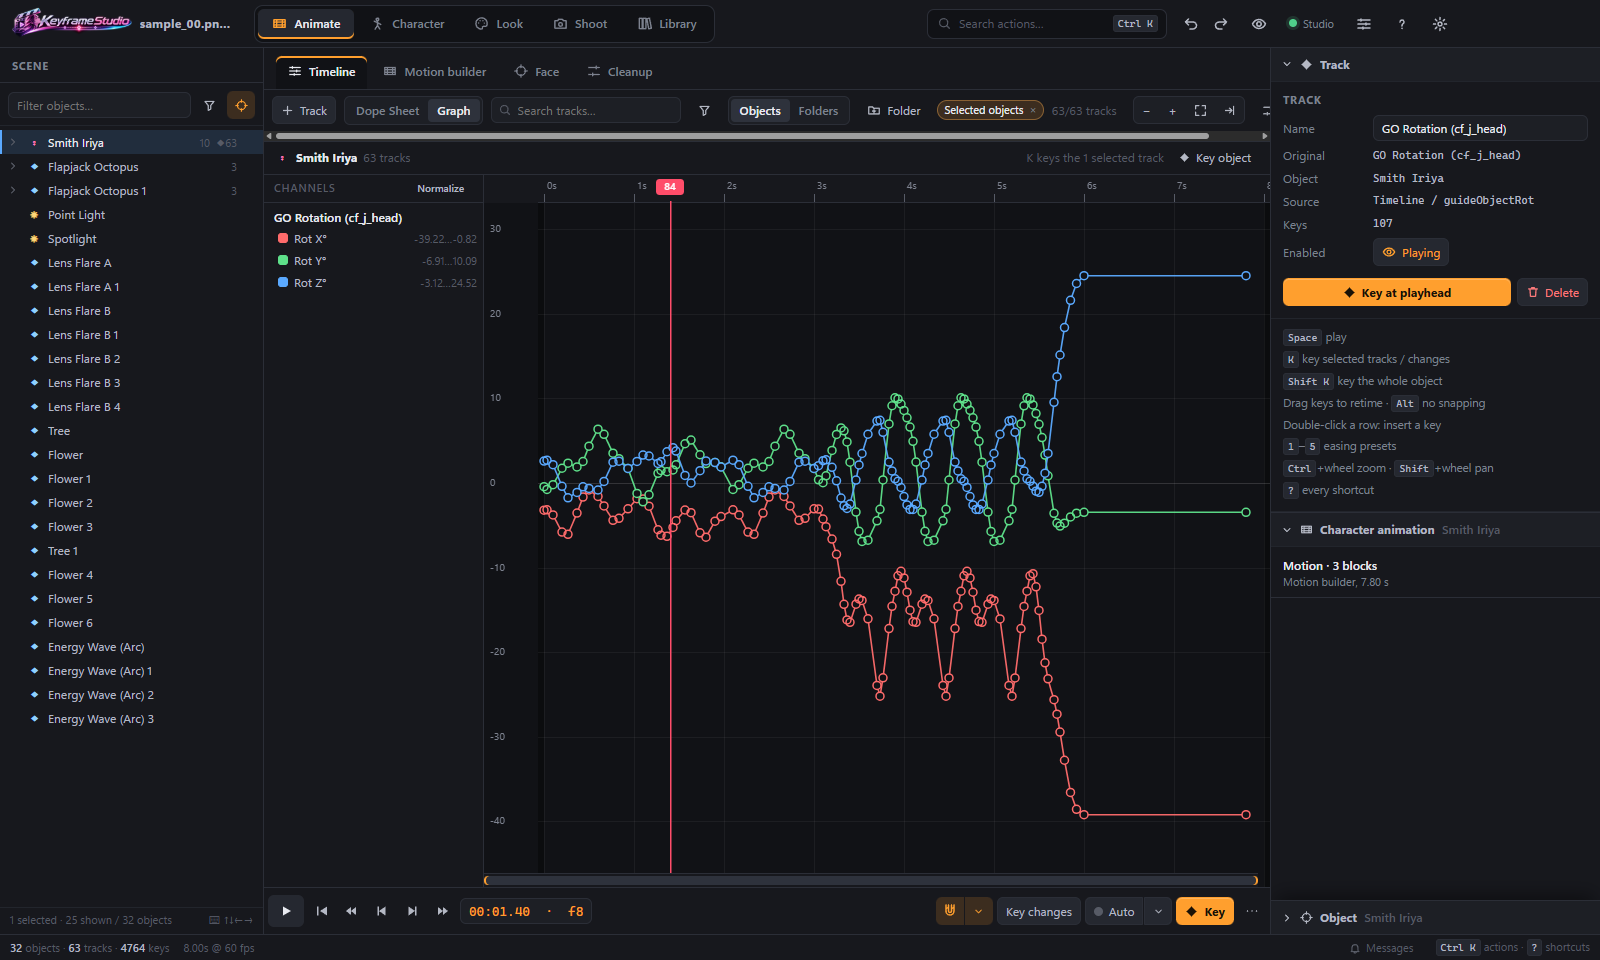
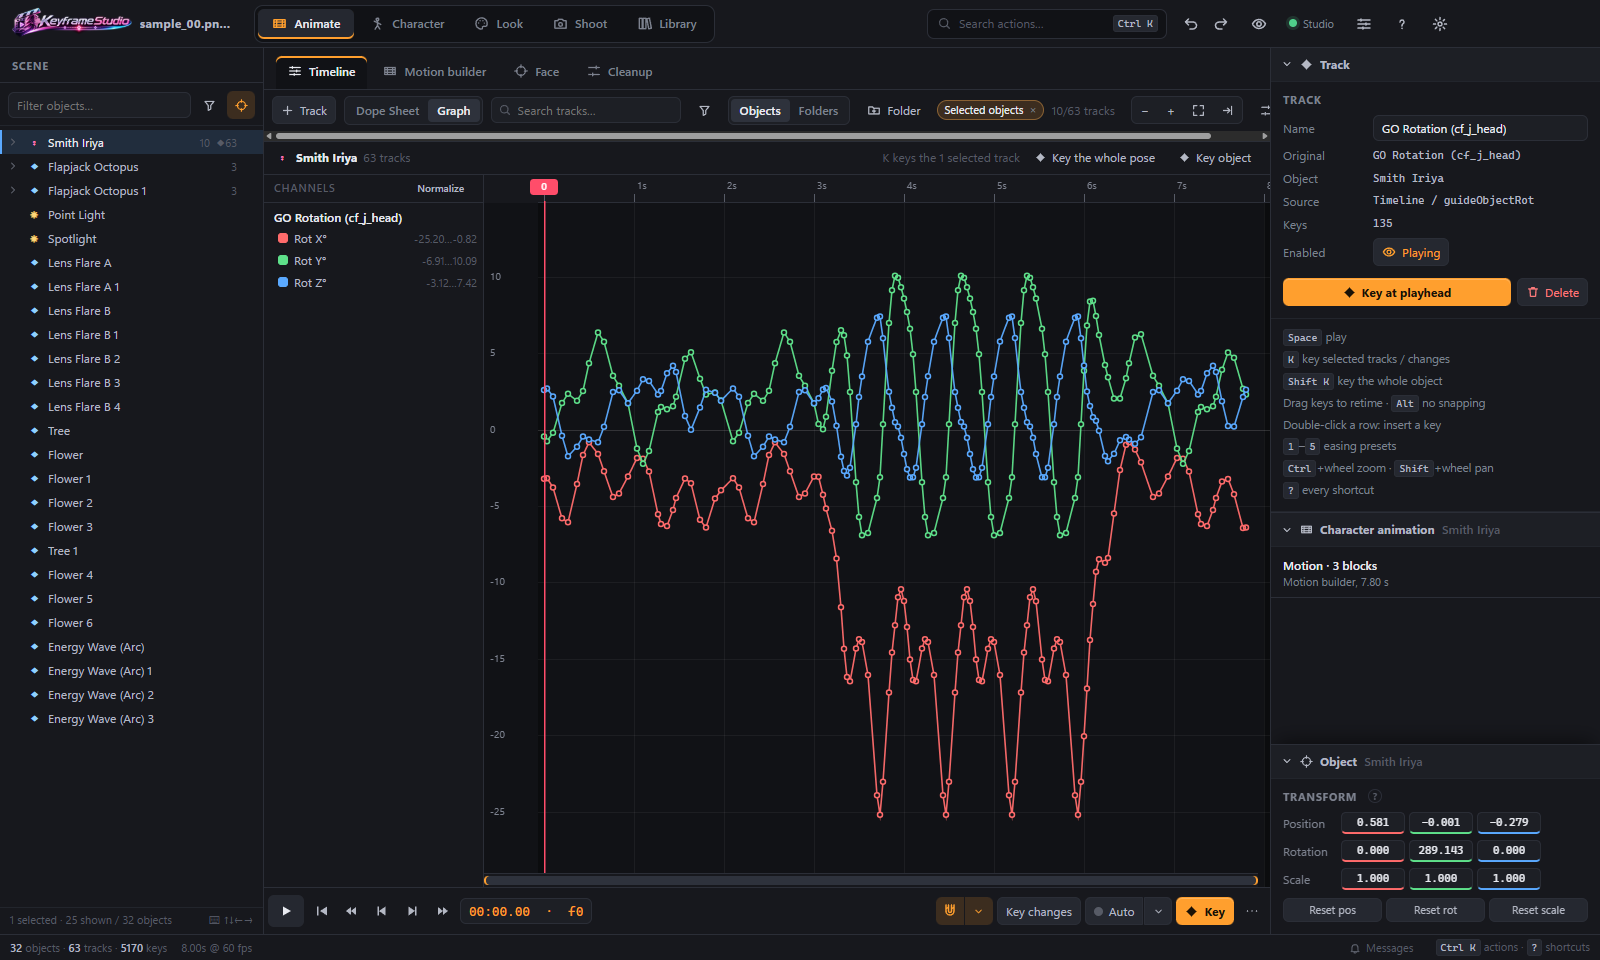
README: new Animate, graph and Picture screenshots; rows for the reworked pages
Timeline body parts, Look › Picture as a list, Body, Face parts, Posing views,
Materials groups, Mod settings areas and Translations described as they are now.

diff --git a/README.md b/README.md
@@ -16,7 +16,7 @@
 </p>
 
 <p align="center">
-  <img src="docs/images/app-animate.png" alt="Keyframe Studio: the Animate workspace with a character's bone tracks and keys, and the selected track on the right" width="900">
+  <img src="docs/images/app-animate.png" alt="Keyframe Studio: the Animate workspace with a character's tracks sorted into body parts, two parts open, and the selected track on the right" width="900">
 </p>
 
 > **Beta.** Keyframe Studio works and is tested against a live CharaStudio, but it's new — expect rough edges.
@@ -67,7 +67,7 @@ paths and onion-skin ghosts, folders (an eye mutes a whole folder or object), se
 <table>
   <tr>
     <td width="50%"><img src="docs/images/app-face.png" alt="Animate › Face: expressions keyed at the playhead with a close-up"></td>
-    <td width="50%"><img src="docs/images/app-look-picture.png" alt="Look › Picture: Studio's settings and Keyframe Studio's effects, grouped into colour, lens and atmosphere"></td>
+    <td width="50%"><img src="docs/images/app-look-picture.png" alt="Look › Picture: a short list of effects with switches, grouped into colour, lens and atmosphere, and the picked effect's settings beside it"></td>
   </tr>
   <tr>
     <td><b>Face</b> — expressions keyed at the playhead, lip-sync from audio with vowel shapes, natural blinks.</td>
@@ -148,7 +148,7 @@ window kept on top of Studio) and saved layouts.
 | --- | --- |
 | **Viewport overlays** (bottom bar › View) | Drawn in Studio's own view, never in renders: skeleton with clickable joints (blue where FK poses them), IK targets (on their joint when idle), accessories, selection outline, lights (direction, cone, reach), scene cameras, the depth-of-field focus point, names on hover. Where markers overlap, rest the pointer and they fan out into labelled chips to pick from |
 | **Viewport handles** | Rings to turn a bone (its axes + a view ring), arrows / cubes / free-move to move and scale objects, lights, cameras, IK targets and accessories; Local or World axes; Ctrl snaps, Shift fine; click the middle (or rest on it) to switch Move / Rotate / Scale. Only the touched part goes to FK (a limb to IK) from the pose on screen — FK and IK work together per limb, and scenes reload that way. Studio's camera holds still over a handle; each drag is one undo |
-| **Dope sheet** | Tracks grouped per object with summary keys, drag/box select, copy/paste/duplicate, easing hotkeys, context menus, audio lanes, undo/redo. **Snap** lands on keys (this track only / all tracks / none), the playhead, ruler ticks and clip edges, with a line and tag saying what; Alt places freely |
+| **Dope sheet** | Tracks grouped per object with summary keys; a character's bone tracks sorted into body parts (Spine & head, Right arm, Face…), closed with their keys on one row and named in words ("Thigh 0"); drag/box select, drag/box select, copy/paste/duplicate, easing hotkeys, context menus, audio lanes, undo/redo. **Snap** lands on keys (this track only / all tracks / none), the playhead, ruler ticks and clip edges, with a line and tag saying what; Alt places freely |
 | **Graph editor** (`Tab`) | Real value curves over time. Rotations shown as X/Y/Z degrees (Unity order, unwrapped). Drag keys ↕ to change values, ↔ to retime; double-click a curve to insert a key; normalize mode to overlay different units |
 | **Keyframe panel** | Time, and the key's **value to drag or type** (rotations as X/Y/Z degrees; Studio follows live, one drag one undo). Easing to the next key with tangent handles, multi-point curves, presets matching Timeline's, and **My easings** (save your own curves, rename, delete) |
 | **Add track** | Every Timeline track type for the selection, plus a **Bones** section: a character's bones and IK targets by body part, each with Rotation / Position — the joint picked in the viewport first |
@@ -161,14 +161,14 @@ window kept on top of Studio) and saved layouts.
 | **Motion clips** (Animate › Motion builder › Clips) | Save the selected keys of one character as a clip (body, face, any track type); apply it at the playhead on any character — replace or add on top, strength, blend, speed, repeats; one undo step |
 | **Face** (Animate) & **Lip-sync** | Expressions keyed at the playhead; lip-sync from audio (loudness + A/I/U/E/O vowel shapes) with voice per character, part of a clip, style presets, vowel map and all speakers at once; natural blinks |
 | **Character** | Animation browser (33k+ clips incl. mods, searchable; also Ctrl+K › Change animation, or right-click a character in the scene list — picking a clip makes it play: FK / IK that would hold the body still go off and a stopped animation starts, one undo), speed/options, FK/IK + parts, eyebrows/eyes/mouth, eye & neck look, blush/tears, hands, outfit + per-slot clothing state, accessories (MoreAccessories slots). Multi-select applies to all selected characters |
-| **Posing** (Character) | How each part is posed, in plain words: **Joints** (FK) or a **Target** (IK) per arm, leg and the hips, switched without the pose jumping (also IK → FK), plus neck, fingers, hair, bust and skirt. With KKPE: **target strength** per hand, foot, shoulder, thigh and the body, **bend goals** for elbows and knees, **joint correction** (crotch, ankles), **copy an arm, hand or leg to the other side**, **physics** (bust and buttocks; hair, skirt and accessories, each with stiffness, elasticity, weight…), and **every bone** by number. Each change is one undo step |
+| **Posing** (Character) | How each part is posed, in plain words: **Joints** (FK) or a **Target** (IK) per arm, leg and the hips, switched without the pose jumping (also IK → FK), plus neck, fingers, hair, bust and skirt. With KKPE: **target strength** per hand, foot, shoulder, thigh and the body, **bend goals** for elbows and knees, **joint correction** (crotch, ankles), **copy an arm, hand or leg to the other side**, **physics** (bust and buttocks; hair, skirt and accessories as a list with a switch each and one editor), and **every bone** by region. One view at a time: Pose, Strength and joints, Physics, Every bone. Each change is one undo step |
 | **Poses** (Character) | Studio-compatible pose library (`.dat` and PNG poses, folders, thumbnails), save, apply, **mirror** (`M`), copy pose between characters |
-| **Face shape** (Character) | KKPE face parts and shapes on a close-up, saved faces and expressions with tags, before/after |
+| **Face shape** (Character) | KKPE face parts and shapes on a close-up: one **Size** slider per part, move, turn and shape folded until you need them; shapes in groups that say how many are in use; saved faces and expressions with tags, before/after |
 | **Outfit** (Character) | Saved outfits, accessories by body area with Solo, clipping checks |
-| **Body** (Character) | ABMX body sliders grouped by region (head & neck, bust, torso & hips, arms & hands, legs & feet, accessories) with readable names, left and right together; scale, position, rotation and length, drag to scrub or click to type; search adds a bone |
+| **Body** (Character) | ABMX body sliders: click a region on a small figure, pick a part from a short list (each line says its size and whether it's moved or turned), change it in one editor. **Size** keeps the part's proportions; shape, length, move and turn are below. **Both sides together** mirrors left and right the way cards store them; when they differ it says so and copies one side over. Changed only, search adds a bone, reset a region; every change (both sides, a whole region) is one undo step |
 | **Prop attachments** (Character) | Right-click an item → **Attach to…** a scene object or a character joint; adjust grip, pause, resume, detach. Requires NodesConstraints |
 | **Transform / Object** | Transform for any object (multi-select edits only the axis you touch), item colors/alpha/glow/FK/anim speed, light color/intensity/range/spot/shadows, folder & camera names, view-through-camera |
-| **Look** | **Picture**: Studio's render settings (color grade + LUTs, bloom, depth of field, SSAO, vignette, fog, sun shafts, toon shading) and Keyframe Studio's effects side by side, grouped into colour, lens, atmosphere and characters, each tagged with where it comes from. **Look presets**: 19 built-in looks (times of day, weather, mood lighting, film styles, Noir, Neon Night, Underwater…), each a colour gradient until its first use; save your own, apply all or some groups at any strength. Keyframe Studio's effects: two-tone fog, colour correction, sharpening, vignette, lens fringes, grain, bokeh depth of field (and xukmi FX when installed). **Materials** through KK_MaterialEditor: one material at a time, or one value across every material of a shader. **Lighting**: Studio's character and map lights, rigs around a character (each drawn from above and from the side), projectors (window light, blinds, leaf shadows), lights that aim at a character, and one list of everything added to switch off, select or remove |
+| **Look** | **Picture**: one list of effects (colour grade, bloom, depth of field, SSAO, vignette, fog, sun shafts, toon shading, and Keyframe Studio's own), grouped into colour, lens, atmosphere and characters, each with a switch and its main value; pick one to edit it. Where Studio and Keyframe Studio both have an effect, both are under one name. **Look presets**: 19 built-in looks (times of day, weather, mood lighting, film styles, Noir, Neon Night, Underwater…), each a colour gradient until its first use; save your own, apply all or some groups at any strength. Keyframe Studio's effects: two-tone fog, colour correction, sharpening, vignette, lens fringes, grain, bokeh depth of field (and xukmi FX when installed). **Materials** through KK_MaterialEditor: one material at a time, values grouped by what they do (colours, shadow, shine, rim light, outline…) with a Changed only filter, or one value across every material of a shader. **Lighting**: Studio's character and map lights, rigs around a character (each drawn from above and from the side), projectors (window light, blinds, leaf shadows), lights that aim at a character, and one list of everything added to switch off, select or remove |
 | **Shots** (Shoot › Shots & camera) | A **shot track** along the timeline: drag shots to move them, drag an edge to trim, drag the edge two shots share to move the cut, drag past a neighbour to swap; split at the playhead, duplicate, snapping to frames, cuts and the playhead; gaps and overlaps shown (one click fixes overlaps). Or a **storyboard** of big pictures with notes, drag to reorder, saved as one picture to share. Each shot has a status (idea, blocked, framed, final), notes, a frame shape, and a camera type: **still** (Studio's view or an angle), **camera keys** (with a camera move across the shot), **first person** through a character's eyes, or **follow** a body part. A **monitor** shows the edit at the playhead through each shot's own camera (your Studio view isn't moved), with the shot's name, timecode, frame and guides. **Angles** keep camera setups to reuse: drag one onto a shot, or onto the empty track for a new shot; each is mirrored in one of Studio's saved views. **Play the edit**: the monitor and renders follow the shots — nothing keyed; a shot with camera keys plays its keys. Studio's own view stays your work camera unless you turn on **In Studio's view too**; a chip in the status bar says when first person or follow has Studio's camera, with Stop. **Transitions** per cut: a hard **cut**, a **glide** (the camera travels between the two shots' cameras; short = a whip pan), a **dip to black / white**, or a **dissolve** — centred on the cut, any length, smooth or linear; shown as a marker and a shaded window on the track, and played in Studio, on the monitor and in renders (Play the edit). **Bake cuts** writes cuts and glides as camera keys (dips and dissolves keep playing from Play the edit). Shots are also draggable on the dope sheet's ruler. Every change is one undo step |
 | **Camera & frame guides** (Shoot, on the right) | **Camera**: Studio's lens, **Key camera** / **Cut here**, camera moves (orbit, dolly, crane…), first person, follow, scene cameras. **Frame guides**: thirds, golden ratio, diagonals, spiral, safe areas, frame shapes — drawn on the monitor and in Studio's window, never in renders. **G** turns them all off and back on from anywhere (also the monitor's **Guides** button and the View menu) |
 | **Audio** (Shoot) | Any number of clips synced to the timeline, each with volume, balance, speed, fades and trims; lanes in the dope sheet; headphone (Bluetooth) delay; saved with the scene |
@@ -179,8 +179,8 @@ window kept on top of Studio) and saved layouts.
 | **Undo everywhere** | One history for timeline, viewport handles, character panel, ABMX, transform, light, item and look edits; a slider or handle drag is one undo step |
 | **Appearance** (Settings) | Dark or light theme (or follow Windows) and an accent colour: orange, pink, blue, green or violet |
 | **Studio window** (Settings) | Hide Studio's menus and other plugins' panels so it's just the picture (HideAllUI when installed) |
-| **Mod settings** (Settings) | Every BepInEx plugin setting (100+ plugins) searchable in one window, typed editors, changed-only filter, reset to default |
-| **Translations** (Settings) | Every Japanese string Keyframe Studio has shown, tagged Yours / Machine / Game. **Auto-translate** new names with Google, DeepL or a local AI; results are pushed into AutoTranslator so the in-game UI improves too |
+| **Mod settings** (Settings) | Every BepInEx plugin setting (100+ plugins) searchable in one window, plugins grouped by area with the ones changed from default first, typed editors, changed-only filter, reset to default |
+| **Translations** (Settings) | Every Japanese string Keyframe Studio has shown, tagged Yours / Machine / Game, opening on the ones that need a look, grouped by where they were seen. **Auto-translate** new names with Google, DeepL or a local AI; results are pushed into AutoTranslator so the in-game UI improves too |
 
 </details>
 
